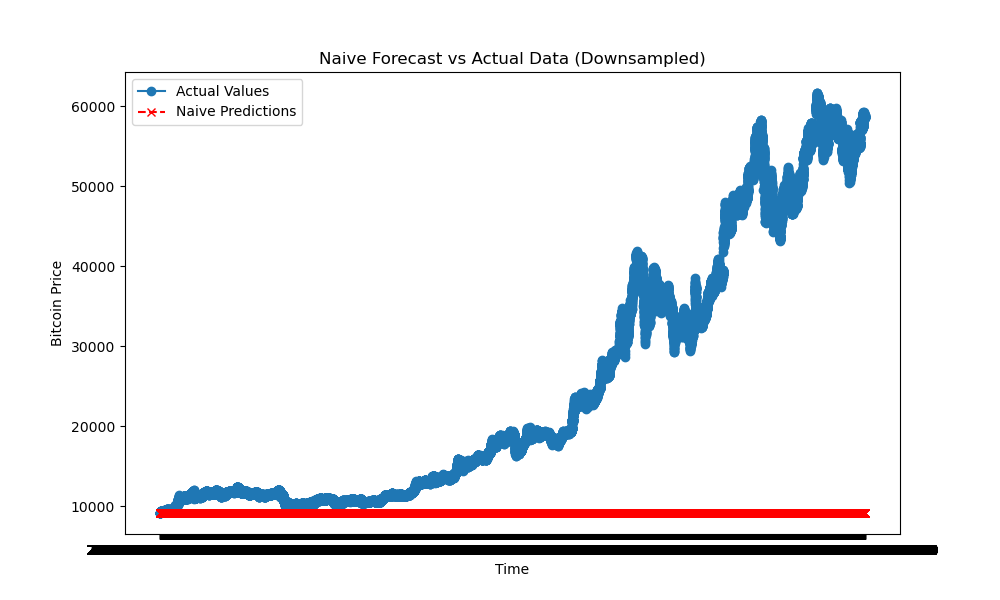
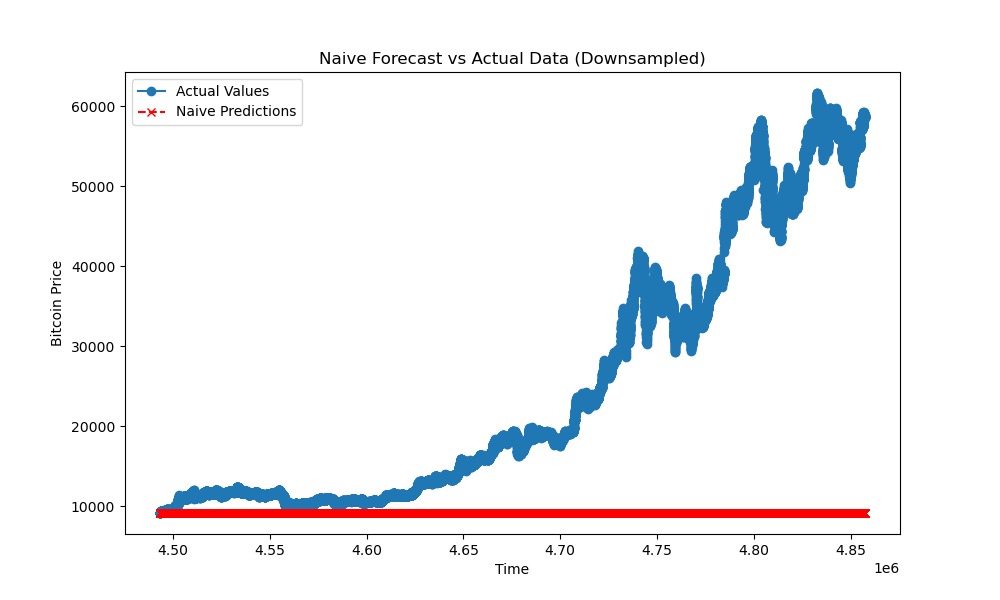
Changing data to just include closing price and timestamp since that is all we are going to need for a basic predicter.

diff --git a/scripts/create_baseline.py b/scripts/create_baseline.py
@@ -7,7 +7,7 @@ import matplotlib.pyplot as plt
 
 
 df = pd.read_csv(
-    '../data/processed/bitstampUSD_1-min_data_2012-01-01_to_2021-03-31.csv',
+    '../data/processed/Bitcoin_Closing_Prices.csv',
     index_col=0)
 
 
@@ -33,7 +33,7 @@ mae = mean_absolute_error(test_copy['Close'], test_copy['naive_predictions'])
 print('MAE: %f' % mae)
 
 
-# Plotting the actual and predicted values
+# # Plotting the actual and predicted values
 # plt.figure(figsize=(10, 6))
 # plt.plot(test.index, test['Close'], label='Actual Values')
 # plt.plot(test_copy.index, test_copy['naive_predictions'],
@@ -51,9 +51,15 @@ downsampled_test = test_copy.iloc[::10]
 # Plotting the actual and predicted values with downsampling
 plt.figure(figsize=(10, 6))
 plt.plot(downsampled_test.index,
-         downsampled_test['Close'], label='Actual Values', marker='o')
-plt.plot(downsampled_test.index, downsampled_test['naive_predictions'],
-         label='Naive Predictions', color='red', linestyle='--', marker='x')
+         downsampled_test['Close'],
+         label='Actual Values',
+         marker='o')
+plt.plot(downsampled_test.index,
+         downsampled_test['naive_predictions'],
+         label='Naive Predictions',
+         color='red',
+         linestyle='--',
+         marker='x')
 plt.title('Naive Forecast vs Actual Data (Downsampled)')
 plt.xlabel('Time')
 plt.ylabel('Bitcoin Price')

diff --git a/scripts/extract_closing_price.py b/scripts/extract_closing_price.py
@@ -1,0 +1,24 @@
+import pandas as pd
+
+# Read the data
+df = pd.read_csv(
+    '../data/raw/bitstampUSD_1-min_data_2012-01-01_to_2021-03-31.csv')
+
+# Convert 'Timestamp' to datetime
+df['Timestamp'] = pd.to_datetime(df['Timestamp'], unit='s')
+
+# Drop NA values
+df = df.dropna()
+
+# Create a new DataFrame with only 'Timestamp' and 'Close' price
+bitcoin_prices = df[['Timestamp', 'Close']]
+
+# Check the info of the new DataFrame
+print(bitcoin_prices.info())
+
+
+bitcoin_prices.to_csv(
+    '../data/processed/Bitcoin_Closing_Prices.csv'
+)
+
+print('Done!')
